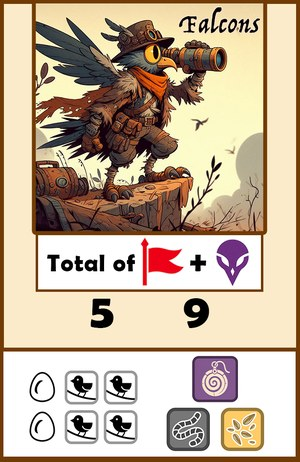
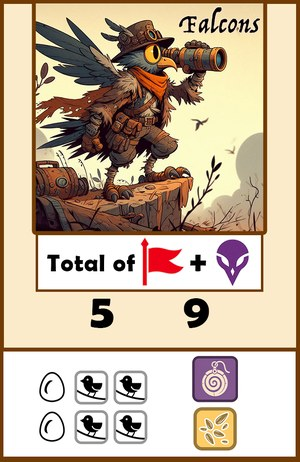
Objectifs personnels : nouvelles images perso2 (départs recalculés)
Claude-Session: https://claude.ai/code/session_01SHozX5HundNPyrWALMPoiv

Changed region(s): [[0.09, 0.7879, 0.51, 0.9697], [0.54, 0.8788, 0.9, 1.0]]

diff --git a/index.html b/index.html
@@ -343,16 +343,16 @@ small.onl{color:#1f8a8a;font-weight:600}
 <div id="zoom"></div>
 <div id="modal"></div>
 <div id="aide" style="position:fixed;inset:0;background:#0007;display:none;align-items:center;justify-content:center;z-index:70;cursor:pointer" onclick="this.style.display='none'"><img src="aide.jpg" alt="Aide de jeu" style="max-height:92vh;max-width:92vw;border-radius:12px"></div>
-<script src="data.js?v=1795690246"></script>
-<script src="content.js?v=1795690246"></script>
-<script src="engine.js?v=1795690246"></script>
-<script src="cards.js?v=1795690246"></script>
-<script src="i18n_it.js?v=1795690246"></script>
-<script src="i18n.js?v=1795690246"></script>
-<script src="stats.js?v=1795690246"></script>
-<script src="peerdb.js?v=1795690246"></script>
-<script src="tuto.js?v=1795690246"></script>
-<script src="ui.js?v=1795690246"></script>
+<script src="data.js?v=1795690852"></script>
+<script src="content.js?v=1795690852"></script>
+<script src="engine.js?v=1795690852"></script>
+<script src="cards.js?v=1795690852"></script>
+<script src="i18n_it.js?v=1795690852"></script>
+<script src="i18n.js?v=1795690852"></script>
+<script src="stats.js?v=1795690852"></script>
+<script src="peerdb.js?v=1795690852"></script>
+<script src="tuto.js?v=1795690852"></script>
+<script src="ui.js?v=1795690852"></script>
 <script>document.getElementById("statsbtn").onclick=document.getElementById("statsbtn2").onclick=()=>BirdsStatsUI.open();
 {const h=document.getElementById("homebtn"); let armed=null;
  h.onclick=()=>{ if(armed){location.reload(); return;} armed=setTimeout(()=>{armed=null; h.textContent=h.dataset.t; h.title=""; h.classList.remove("warn");},3000); h.dataset.t=h.textContent; const lg=window.I18N?I18N.lang:"fr"; h.textContent="Quitter ? ✓"; h.title=({en:"Click again to quit the game and go back home",it:"Clicca di nuovo per uscire dalla partita e tornare alla home"})[lg]||"Cliquez encore pour quitter la partie et revenir à l'accueil"; h.classList.add("warn");};}

diff --git a/NOTES_PROJET.md b/NOTES_PROJET.md
@@ -102,7 +102,7 @@ Valeur mesurée d'une ressource ajoutée au départ (gain de victoire, 2 joueurs
 
 1. **Ressources de départ des objectifs personnels** : la Mouette de départ vaut à elle seule environ 12 à 15 points de victoire (Magpies 44 %, Swans 42 %, Storks 26 %). La meilleure variante testée, sans Mouette et avec 1 ver + 1 nourriture par famille (graine pour l'Academy et la Court, ver pour la Legion et le Circle, fruit pour la Guild), ramène les victoires entre 29 et 37 %. **À faire** : proposer et simuler une variante qui garde des cases du Chemin des Anciens au départ (demande de l'autrice). Rien n'est encore appliqué dans le jeu.
 2. **Objectifs bleus (26 novembre 2026)** : C02, C03, C04 et C06 comptent désormais les **îles** où le joueur a au moins 1 Poussin dans une région du type voulu (avant : le nombre de Poussins) — `islandsWith`, `blueNew` pour l'IA. Seuils : C01 3/4 à 2 joueurs, 4 à 3-4 ; C02, C03, C05 4/5 et 4 ; C04 et C06 5/6 et 5 (un cran de plus, car chaque joueur démarre avec 1 Poussin dans une région grise à Ruine). Mesures avec la vraie IA, manche où le 1er puis le dernier joueur réussit, à 2 joueurs : C01 7 / 14 ; C02 7,5 / 18 ; C03 7 / 14 ; C04 6 / 12 ; C05 13 / 18 ; C06 7 / 14,5 (avec 4/5, C04 et C06 tombaient aux manches 3 / 8). L'image `obj/C01_34.jpg` affiche encore 3 au lieu de 4.
-4. **Objectifs personnels calculés d'après la force des tags (26 novembre 2026, **appliqué** ; les 5 images `perso2/` A05, A07, A08, A09, A10 sont à refaire ; version finale à 6 graines et 6 fruits : Falcons +1 Poussin, 1 graine, 1 Rune ; Woodpeckers 2 Anciens, 3 vers ; 49,6 à 50,6 % à 2 joueurs sur 60 000 parties)**. Méthode : objectif attribué au hasard (option `forcePerso`), IA simple pour la précision (30 000 à 60 000 parties à 2, marge ±1). Force propre des tags, tous avec le même départ (1 ver, 1 graine, 1 fruit) : de 48,7 % (Kingfishers) à 52,0 % (Owls) ; effet par famille : Court +0,8, Circle +0,6, Academy −0,2, Guild −0,6, Legion −0,7. Départs actuels : 49,0 à 51,5 % sauf Owls 46,9 %. Proposition testée (49,1 à 50,9 % à 2 joueurs) : Owls 3 vers, 1 graine, 1 fruit ; Eagles Mouette, −1 Poussin, 1 fruit ; Woodpeckers 2 Anciens, 1 ver, 1 fruit ; Magpies +1 Poussin, 1 Ancien, 2 vers, 1 fruit ; Falcons +1 Poussin, 2 vers, 1 Rune. Remplacer un ver par une graine vaut environ +5 points (Magpies 47,7 → 52,8 %).
+4. **Objectifs personnels calculés d'après la force des tags (26 novembre 2026, **appliqué** ; les 10 images `perso2/` ont été remplacées par celles de l'auteur ; version finale à 6 graines et 6 fruits : Falcons +1 Poussin, 1 graine, 1 Rune ; Woodpeckers 2 Anciens, 3 vers ; 49,6 à 50,6 % à 2 joueurs sur 60 000 parties)**. Méthode : objectif attribué au hasard (option `forcePerso`), IA simple pour la précision (30 000 à 60 000 parties à 2, marge ±1). Force propre des tags, tous avec le même départ (1 ver, 1 graine, 1 fruit) : de 48,7 % (Kingfishers) à 52,0 % (Owls) ; effet par famille : Court +0,8, Circle +0,6, Academy −0,2, Guild −0,6, Legion −0,7. Départs actuels : 49,0 à 51,5 % sauf Owls 46,9 %. Proposition testée (49,1 à 50,9 % à 2 joueurs) : Owls 3 vers, 1 graine, 1 fruit ; Eagles Mouette, −1 Poussin, 1 fruit ; Woodpeckers 2 Anciens, 1 ver, 1 fruit ; Magpies +1 Poussin, 1 Ancien, 2 vers, 1 fruit ; Falcons +1 Poussin, 2 vers, 1 Rune. Remplacer un ver par une graine vaut environ +5 points (Magpies 47,7 → 52,8 %).
 3. **Objectifs personnels avec la vraie IA** (396 parties à 2) : tous entre 44 % et 59 % de victoires, marge ±11. Les deux objectifs à Mouette (Swans, Eagles) : 59 % ±8 à eux deux ; réduits à « Mouette, −1 Poussin » seuls : 43 % ±9. Rien de modifié : l'écart est trop proche de la marge. Outils : `test/col.js` (collecte, options `blue`, `blueTh`, `persoRes`, `forcePerso` du moteur) et `test/ana.js` (non versionnés).
 3. **Prairie** : île la moins colonisée (grande île, pas une île de départ, bonus peu attractifs).
 4. **Jeu en ligne entre amis** : fait, sur claude.ai (base de l'artefact) **et** sur GitHub Pages (connexion directe entre navigateurs, WebRTC via PeerJS chargé depuis unpkg.com, `peerdb.js` ; le code de partie sert d'adresse `birds-v1-CODE` ; aucun compte ni serveur à gérer). Sur GitHub, une partie se joue entre joueurs passant tous par GitHub ; certains réseaux très fermés (entreprise, certains mobiles) peuvent bloquer la connexion directe. L'envoi des statistiques à l'auteur reste réservé à claude.ai.
